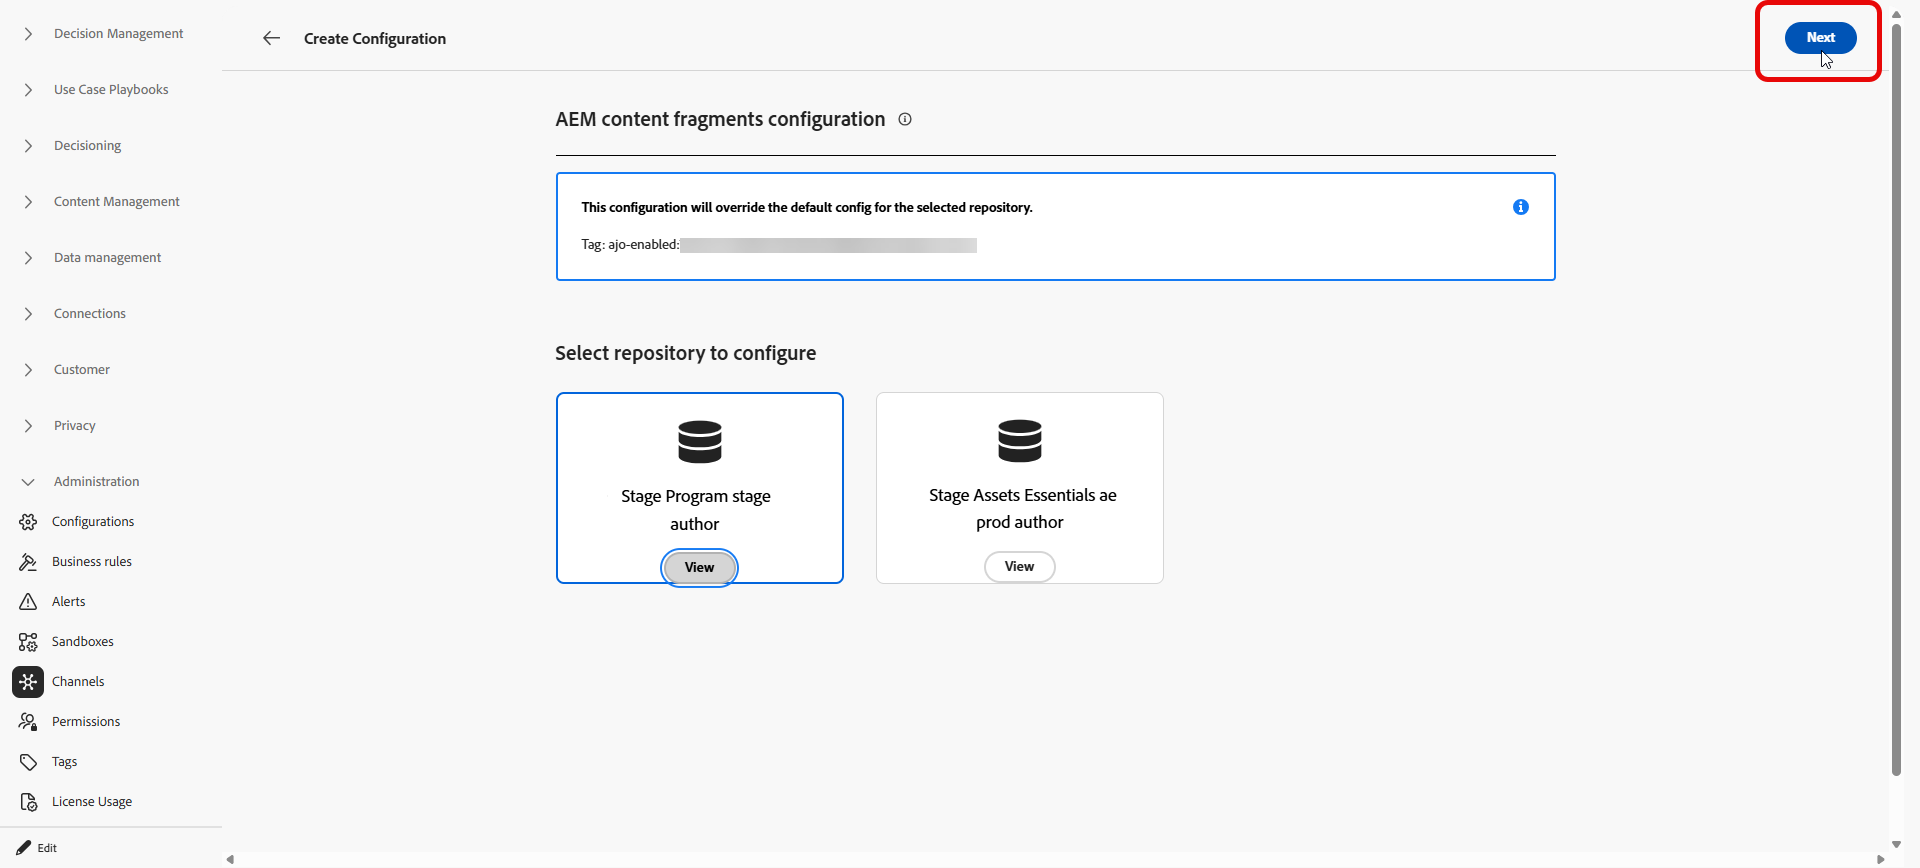
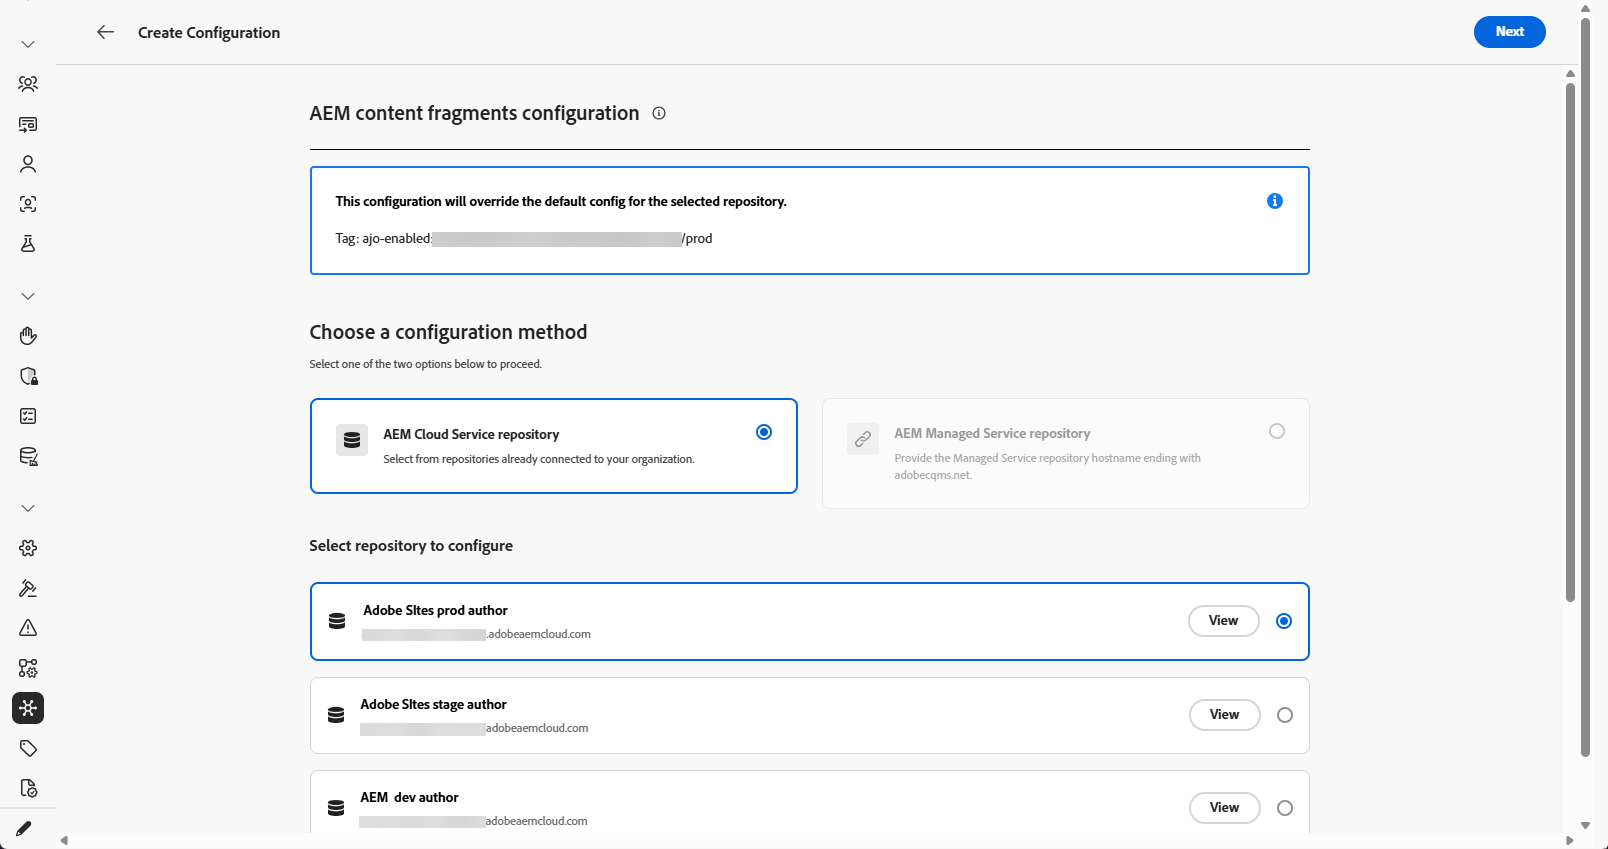
update screens

diff --git a/help/using/integrations/aem-admin-settings.md b/help/using/integrations/aem-admin-settings.md
@@ -45,49 +45,51 @@ To configure your repository:
 
    ![](assets/aem-admin-settings-1.png)
 
-1. If you use **[!DNL Adobe Experience Manager Managed Services]**, enter a repository hostname ending with `adobecqms.net` in the **[!UICONTROL Custom AMS Repo ID]** field.
+1. Choose a configuration method:
 
-   ![](assets/aem-admin-settings-6.png)
+    * For **[!DNL Adobe Experience Manager Managed Services]** repository, enter a repository hostname ending with `adobecqms.net` in the **[!UICONTROL AMS repository hostname]** field.
 
-1. If you use **[!DNL Adobe Experience as a Cloud Service]**, choose which repository to configure and click **[!UICONTROL Next]**.
+        ![](assets/aem-admin-settings-6.png)
 
-    Additionally, you can click **[!UICONTROL View]** to access this repository.
+    * If you use **[!DNL Adobe Experience as a Cloud Service]**, choose which repository to configure and click **[!UICONTROL Next]**.
 
-    >[!IMPORTANT]
-    >
-    >Saving a new configuration for the same organization, sandbox, and repository **replaces** the default configuration, i.e **publish** repository. 
+        Additionally, you can click **[!UICONTROL View]** to access this repository.
 
-   ![](assets/aem-admin-settings-2.png)
+        >[!IMPORTANT]
+        >
+        >Saving a new configuration for the same organization, sandbox, and repository **replaces** the default configuration, i.e **publish** repository. 
+
+        ![](assets/aem-admin-settings-2.png)
 
 1. Enter a **[!UICONTROL Name]** and **[!UICONTROL Description]**.
 
-1. Choose your setup:
+1. Choose your setup in the drop-down below:
 
-    +++ Author only setup
+    * +++ Author only setup
 
-    Select **[!UICONTROL Author only setup]** when Journey Optimizer should read Content Fragments from the Adobe Experience Manager **author** environment only. Replication from author to publish and live publish updates are not supported.
+        Select **[!UICONTROL Author only setup]** when Journey Optimizer should read Content Fragments from the Adobe Experience Manager **author** environment only. Replication from author to publish and live publish updates are not supported.
 
-    ![](assets/aem-admin-settings-3.png)
+        ![](assets/aem-admin-settings-3.png)
     
     +++
 
-    +++ Publish instance setup
+    * +++ Publish instance setup
 
-    By default, every **[!DNL Adobe Experience Manager as a Cloud Service]** repository is configured to use the **publish** instance. You can continue to the Content Fragment test step without changing these settings.
+        By default, every **[!DNL Adobe Experience Manager as a Cloud Service]** repository is configured to use the **publish** instance. You can continue to the Content Fragment test step without changing these settings.
 
-    If your publish instance is **authenticated**, or you must use a custom publish domain, follow the steps below.
+        If your publish instance is **authenticated**, or you must use a custom publish domain, follow the steps below.
 
-    1. Select **[!UICONTROL Publish instance setup]** to turn on publish instance settings.
+        1. Select **[!UICONTROL Publish instance setup]** to turn on publish instance settings.
         
-        ![](assets/aem-admin-settings-4.png)
+            ![](assets/aem-admin-settings-4.png)
 
-    1. Enable **[!UICONTROL Send token to publish instance]** so service credentials are included with requests to the publish instance.
+        1. Enable **[!UICONTROL Send token to publish instance]** so service credentials are included with requests to the publish instance.
 
-    1. Paste a valid **[!UICONTROL Service Credential JSON]** for authentication.
+        1. Paste a valid **[!UICONTROL Service Credential JSON]** for authentication.
 
-    1. Optionally provide a custom domain if your organization cannot reach the default AEM publish host (`publish-XX-XX.adobeaemcloud.com`) to fetch content.
+        1. Optionally provide a custom domain if your organization cannot reach the default AEM publish host (`publish-XX-XX.adobeaemcloud.com`) to fetch content.
 
-        ![](assets/aem-admin-settings-5.png)
+            ![](assets/aem-admin-settings-5.png)
 
     +++
 
